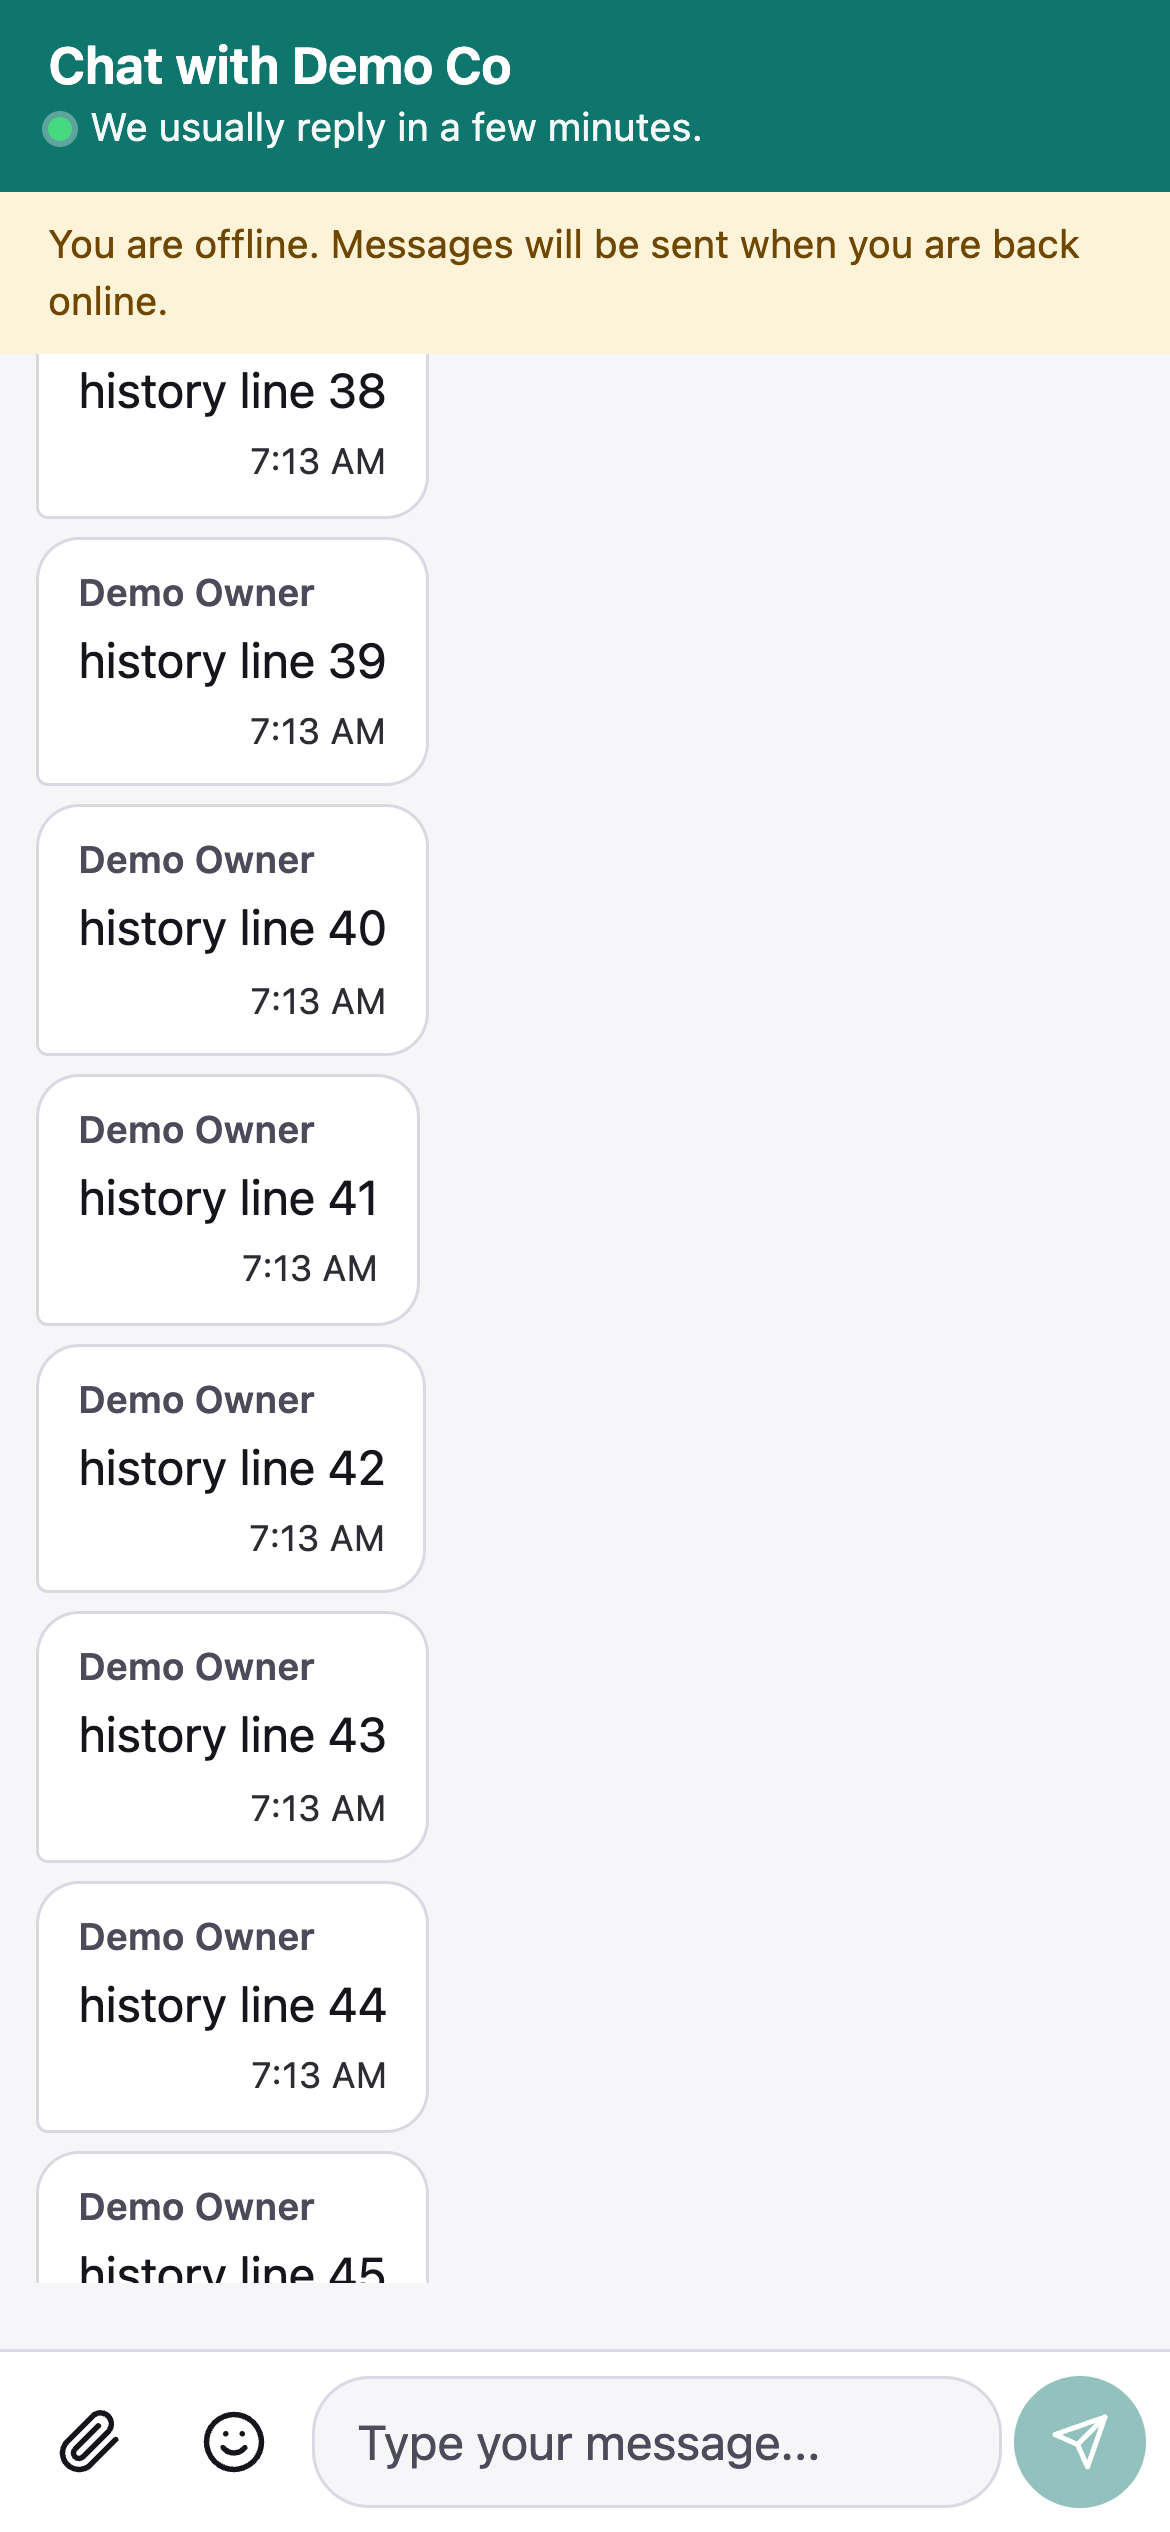
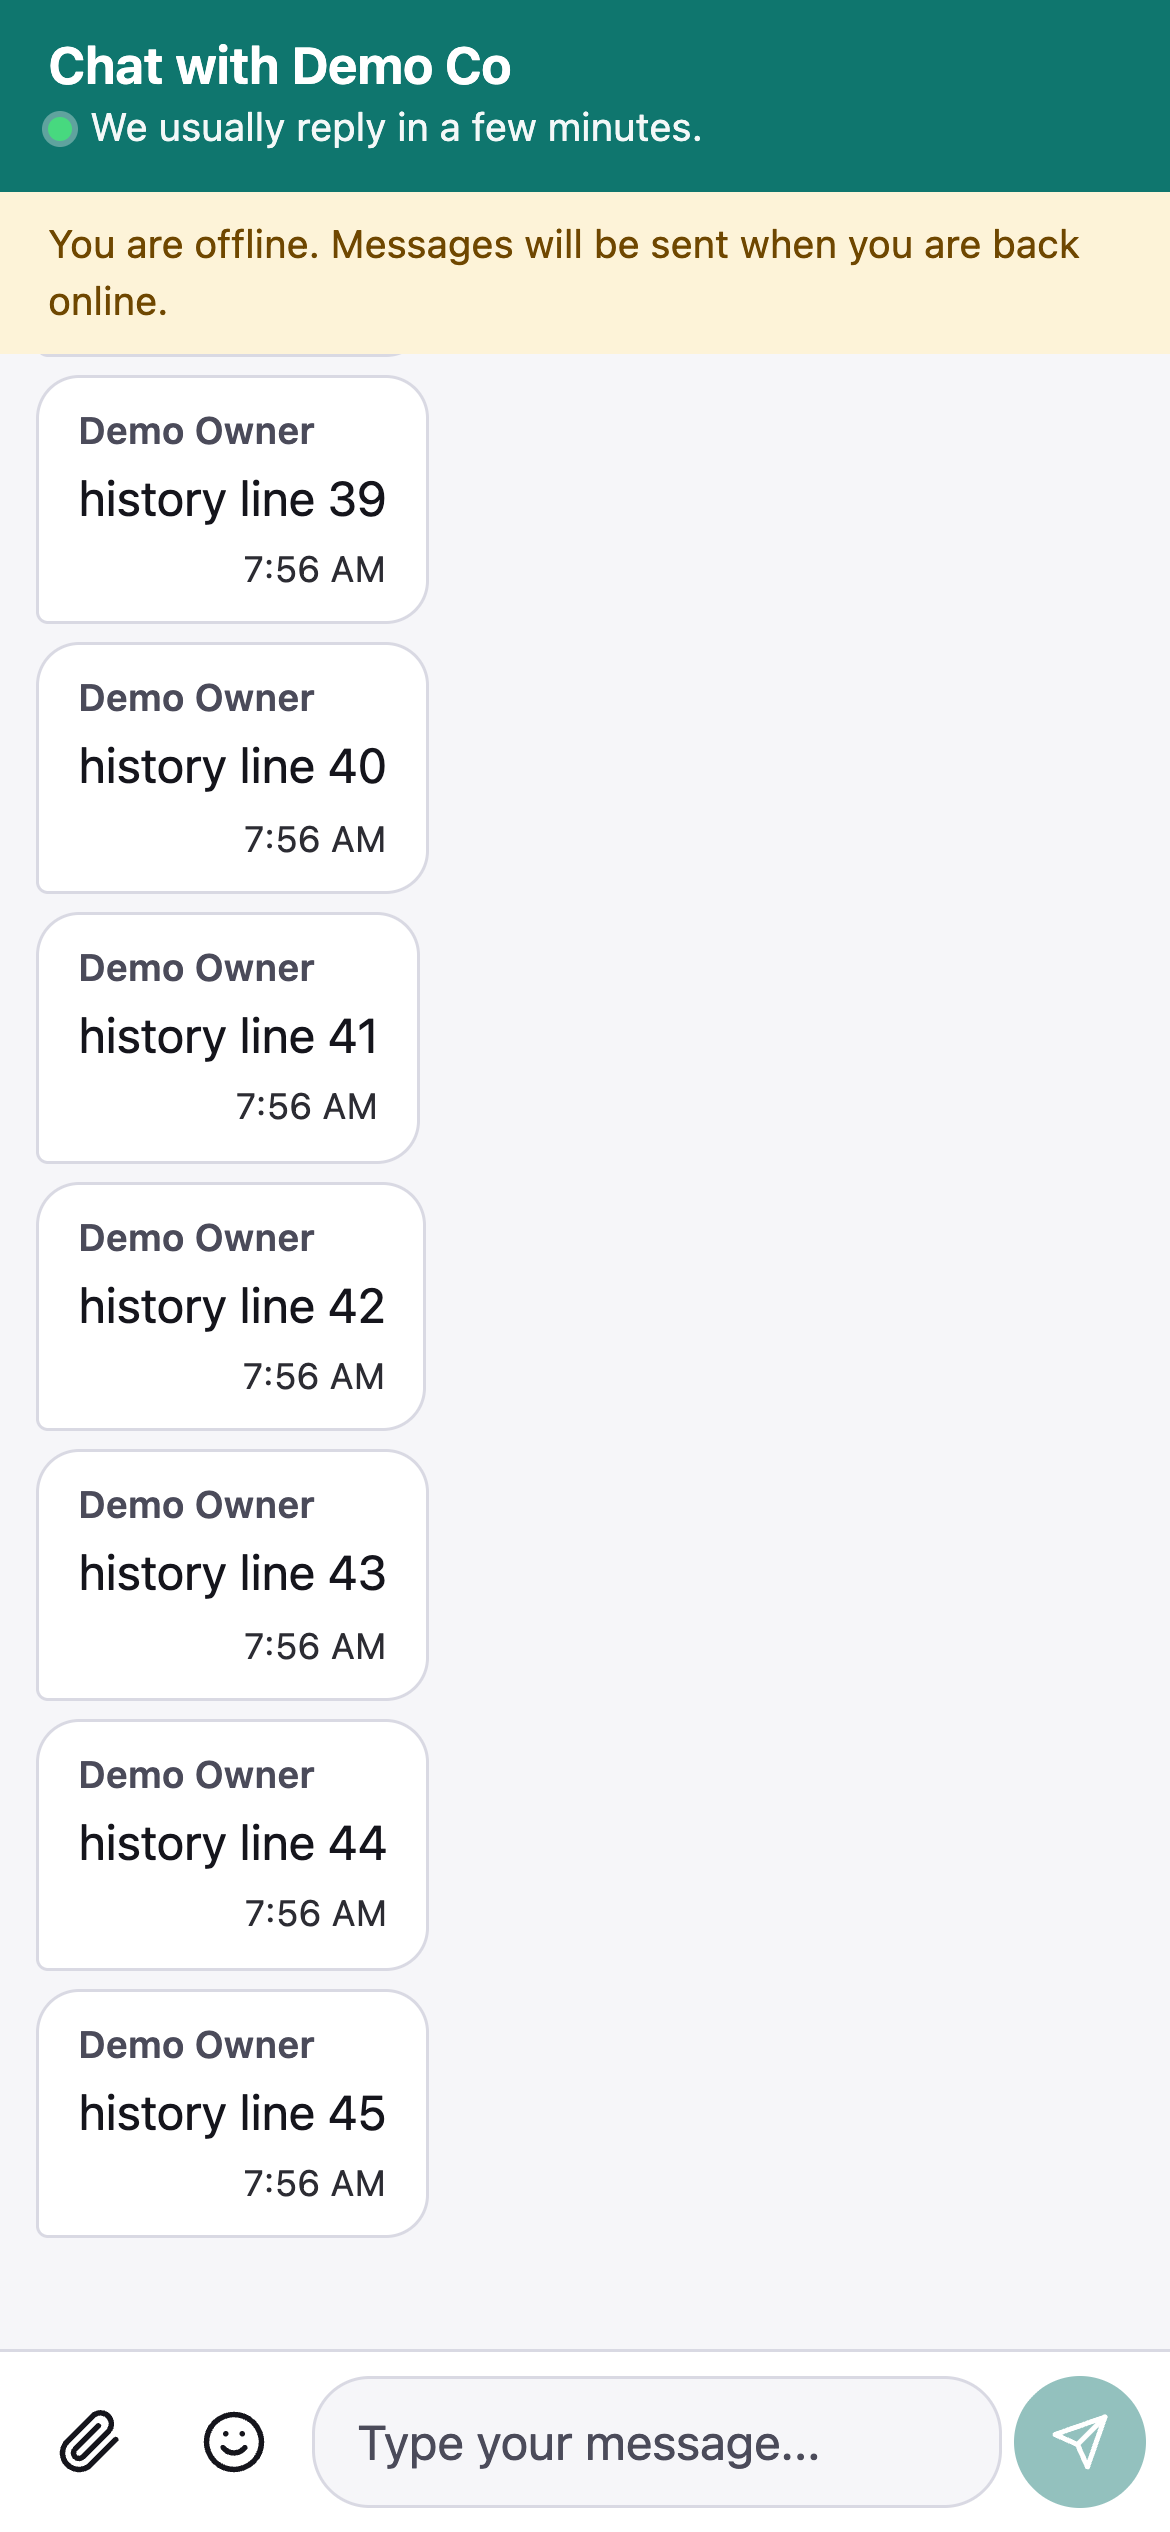
docs(design): keep a few hosted chat screenshots (offline view re-taken after the scroll anchoring fix)

Changed region(s): [[0.0308, 0.1248, 0.3692, 0.9048]]

diff --git a/docs/MOBILE-BRIDGE.md b/docs/MOBILE-BRIDGE.md
@@ -48,7 +48,7 @@ Mobile behaviour that is built in and tested:
 | motion and contrast | `prefers-reduced-motion` honoured; axe (WCAG 2.1 A/AA) passes in light and dark at 390x844 and 1024x768 |
 | screen readers | the list is `role="log"` with polite live updates; every control has a translated label; focus rings on keyboard focus |
 
-Screenshots (kept in [docs/design](design/)): `hosted-chat-390-light-2-conversation.png`, `hosted-chat-390-dark-2-conversation.png`, `hosted-chat-390-light-5-offline.png`, `hosted-chat-102-dark-2-conversation.png`, `hosted-chat-390-light-6-rtl.png`, `bridge-test-1024-light.png`.
+Screenshots (kept in [docs/design](design/)): `hosted-chat-390-light-2-conversation.png`, `hosted-chat-390-dark-2-conversation.png`, `hosted-chat-390-light-4-history.png`, `hosted-chat-390-light-5-offline.png`, `hosted-chat-102-dark-2-conversation.png`, `hosted-chat-102-light-3-emoji.png`, `hosted-chat-390-light-6-rtl.png`, `bridge-test-1024-light.png`.
 
 ## Origin and identity model
 
